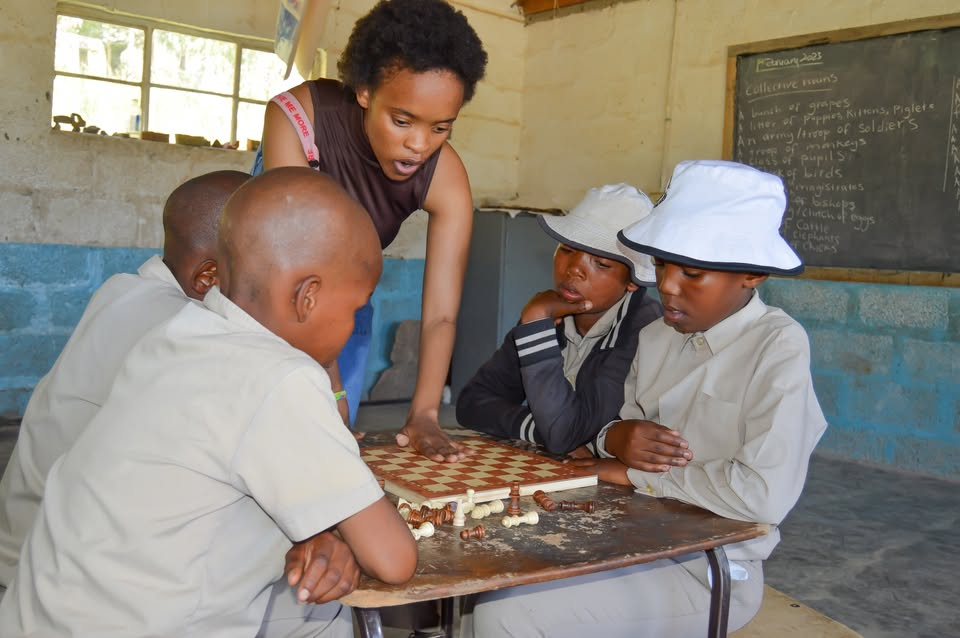
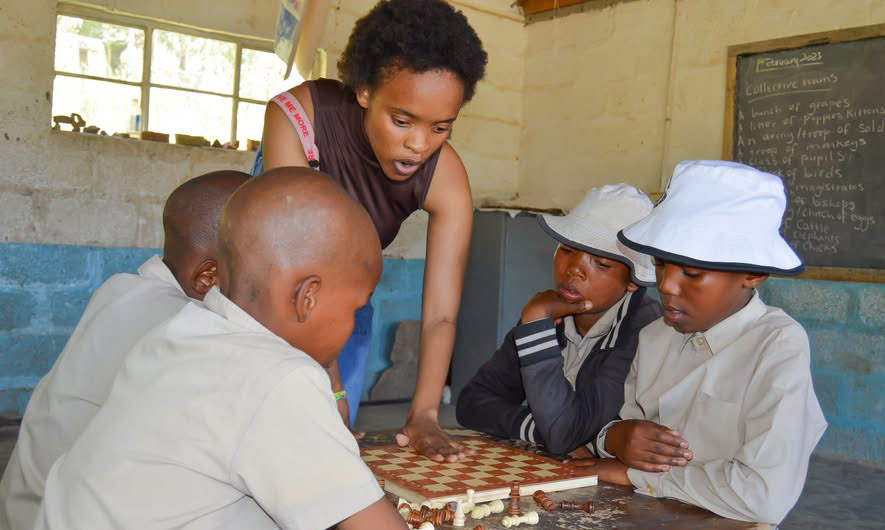
Update website files

diff --git a/Projects.html b/Projects.html
@@ -37,10 +37,10 @@
                     Originally sparked by the rising family conflicts and violent incidents in the community, the project offers <b>play therapy</b>, <b>art therapy</b>, and <b>peer observation </b>to support children’s mental well-being.
                     We currently work with three schools, using activities like:
                     <ul>
-                    <li>	🎨 Art and crafts – for emotional expression
-                    <li>	♟ Chess – to develop focus and critical thinking
-                    <li>	🎶 Singing – to foster joy and community
-                    <li>  🌱 Life skills sessions – to equip children with tools for emotional regulation and self-awareness
+                    <li>Art and crafts – for emotional expression</li>
+                    <li>Chess – to develop focus and critical thinking</li>
+                    <li>Singing – to foster joy and community</li>
+                    <li>Life skills sessions – to equip children with tools for emotional regulation and self-awareness</li>
                     </ul>
                     We also observe how children interact with each other and offer individual counseling where needed.
                     Ikelelloe is an ongoing journey, helping children grow into mindful, emotionally aware individuals ,one activity, one conversation, one child at a time.
@@ -55,9 +55,9 @@
                     Seriti Sa Makhoarane, meaning “The Spirit of the Ancestors,” is a community-driven project that aims to restore and preserve the cultural heritage of Makeneng, a village in Lesotho. Launched in 2022, this initiative focuses on heritage restoration, cultural education, and community engagement.
                     The project involves:
                     <ul>
-                        <li>	🏛 Restoring historical sites – to safeguard our cultural legacy
-                        <li>	📚 Cultural education programs – to teach children about their heritage
-                        <li>	🌍 Community workshops – to engage locals in preserving their history
+                        <li>Restoring historical sites – to safeguard our cultural legacy</li>
+                        <li>Cultural education programs – to teach children about their heritage</li>
+                        <li>Community workshops – to engage locals in preserving their history</li>
                     </ul>
                     Through Seriti Sa Makhoarane, HeMA fosters a sense of identity and belonging among children and the community, ensuring that the spirit of our ancestors lives on in future generations.
                 </p>
@@ -71,9 +71,9 @@
                     The project includes:
                     <!--list indents to the left-->
                     <ul>
-                        <li>🎨 Creative workshops – to encourage self-expression
-                        <li>🤝 Community events – to foster connections among families
-                        <li>🧠 Mental health awareness campaigns – to promote understanding and support for children’s emotional well-being
+                        <li>Creative workshops – to encourage self-expression</li>
+                        <li>Community events – to foster connections among families</li>
+                        <li>Mental health awareness campaigns – to promote understanding and support for children’s emotional well-being</li>
                     </ul>
                     Through Bana Bona, HeMA aims to empower children to thrive in mind, body, and spirit, ensuring that every child feels valued and supported.
                 </p>

diff --git a/index.html b/index.html
@@ -84,15 +84,11 @@
       <a href="Projects.html#bana"></a>
       <img src="Bana Bona hImg.JPG" alt="Bana bona head" class="project-img">
       <p>
-
         <button class="button light-grey block" onclick="window.location.href='Projects.html#bana'">Read more...</button>
       </p>
     </div>
   </div>
 </div>
-
-
-
 
   <!--Team Section-->
 

diff --git a/TeamMembers.html b/TeamMembers.html
@@ -5,6 +5,7 @@
     <meta name="viewport" content="width=device-width, initial-scale=1.0">
     <link rel="stylesheet" href="Styles.css">
     <script src="HEMAjs.js" defer></script>
+    <meta name="viewport" content="width=device-width, initial-scale=1.0">
     <title>Team Members</title>
 </head>
 <body>

diff --git a/Styles.css b/Styles.css
@@ -205,6 +205,7 @@ header.display-container {
   border-bottom: 2px solid #ccc;
   display: inline-block;
   padding-bottom: 8px;
+  text-align: center;
 }
 
 #about p {
